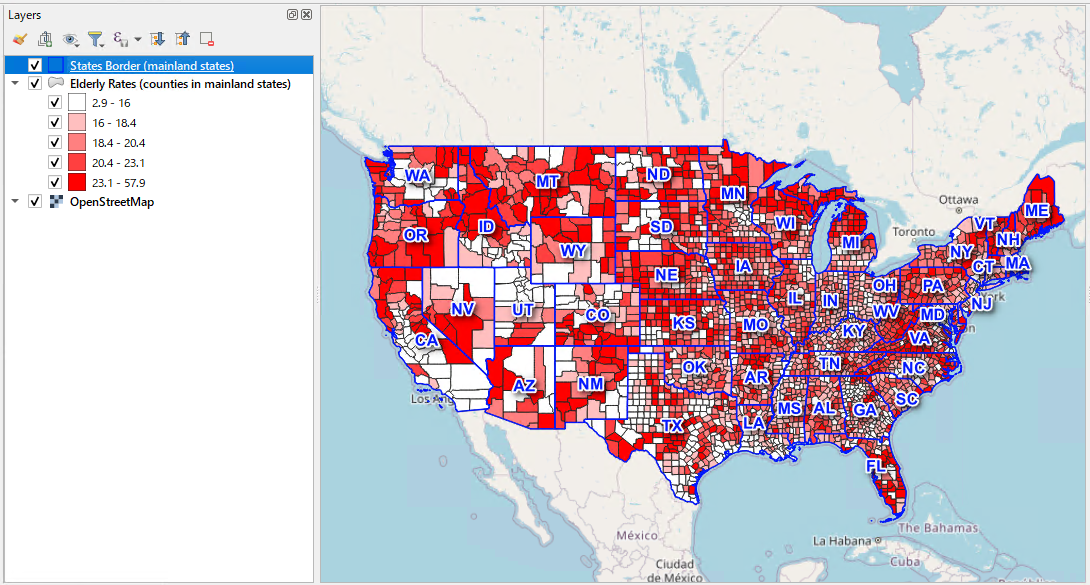
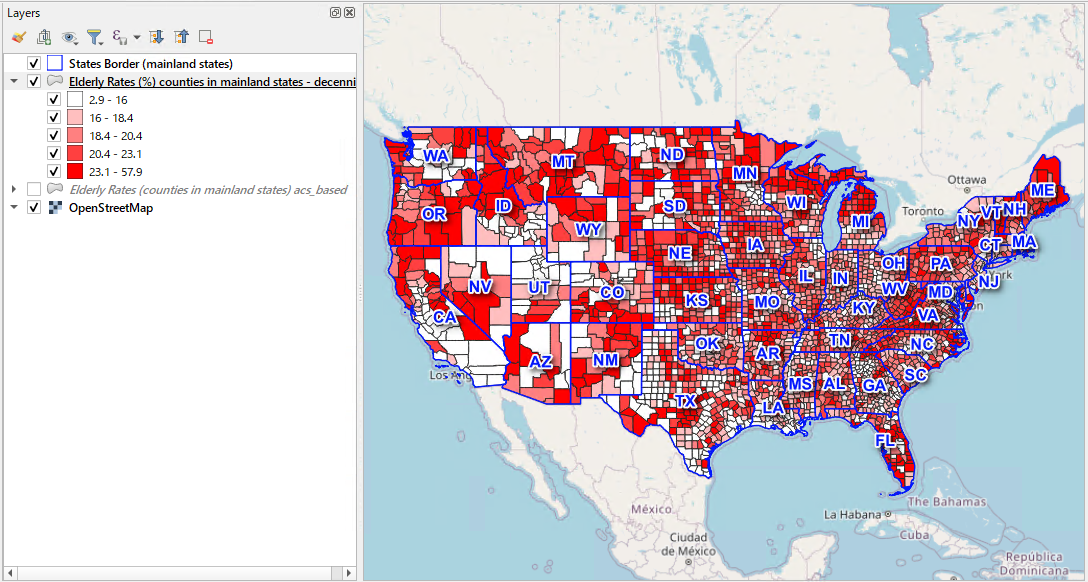
Add 03-02 density images; reorder Sample Output in README (density first)
- output/sql/03-02_population_density_county_wide.png: new
- output/sql/03-02_population_density_county_zoomed.png: new
- output/sql/03-01_elderly_rate_county_wide.png: updated
- output/sql/03-01_elderly_rate_county_zoomed.png: updated
- README.md: reorder Sample Output to density wide/zoom then elderly wide/zoom
  (density image appears first = used as thumbnail on Upwork/portfolio sites);
  expand Notable patterns table to cover both maps; add 03-02 to SQL Templates
  table and Repository Layout

diff --git a/README.md b/README.md
@@ -25,6 +25,12 @@ Administrative boundary geometries are sourced from the US Census Bureau TIGER/L
 
 ## Sample Output
 
+![Population density choropleth — contiguous US](output/sql/03-02_population_density_county_wide.png)
+*Population density by county (48 contiguous states, persons/sq mi) — generated with [`sql/03_visualization/03-02_population_density_county.sql`](sql/03_visualization/03-02_population_density_county.sql) + QGIS. ACS 5-year 2022. Land area sourced from TIGER/Line `aland` field for accurate density calculation.*
+
+![Population density choropleth — NY metro area](output/sql/03-02_population_density_county_zoomed.png)
+*Zoomed view — New York metropolitan area. The density gradient from Manhattan outward to suburban and rural counties is clearly visible.*
+
 ![Elderly rate choropleth — contiguous US](output/sql/03-01_elderly_rate_county_wide.png)
 *Elderly rate by county (48 contiguous states) — generated with [`sql/03_visualization/03-01_elderly_rate_county.sql`](sql/03_visualization/03-01_elderly_rate_county.sql) + QGIS. ACS 5-year 2022. Data source switchable to Decennial Census 2020 via a single parameter.*
 
@@ -33,11 +39,13 @@ Administrative boundary geometries are sourced from the US Census Bureau TIGER/L
 
 **Notable patterns visible in the maps:**
 
-| Pattern | Explanation |
-|---------|-------------|
-| Very low elderly rate (~3–10%) | Military base counties (Fort Benning GA, Camp Lejeune NC, Fort Riley KS), college towns (BYU Provo UT, Texas A&M TX), Native American reservation counties (Pine Ridge SD), oil-boom counties (McKenzie ND — Bakken shale) |
-| Extremely high elderly rate (57.9%) | Sumter County FL — home of **The Villages**, the largest planned retirement community in the US (~130,000+ residents, 55+ only) |
-| New England gap | Connecticut appears blank in the Decennial layer due to a 2022 county reorganisation (8 legacy counties → 9 Planning Regions). Handled in the query via a vintage-aware geometry CTE; see [Known Issues](docs/census_us_README.md#6-known-issues). |
+| Map | Pattern | Explanation |
+|-----|---------|-------------|
+| Density | Extreme concentration in Northeast corridor | New York County (Manhattan) tops ~27,000 persons/km²; density drops sharply westward from the Boston–Washington corridor |
+| Density | Very low density across the interior West | Wyoming, Montana, and Nevada counties often fall below 1 person/km² — frontier-county territory |
+| Elderly rate | Very low elderly rate (~3–10%) | Military base counties (Fort Benning GA, Camp Lejeune NC, Fort Riley KS), college towns (BYU Provo UT, Texas A&M TX), Native American reservation counties (Pine Ridge SD), oil-boom counties (McKenzie ND — Bakken shale) |
+| Elderly rate | Extremely high elderly rate (57.9%) | Sumter County FL — home of **The Villages**, the largest planned retirement community in the US (~130,000+ residents, 55+ only) |
+| Both | New England gap in Decennial layer | Connecticut appears blank when using Decennial Census due to a 2022 county reorganisation (8 legacy counties → 9 Planning Regions). Handled via a vintage-aware geometry CTE; see [Known Issues](docs/census_us_README.md#6-known-issues). |
 
 ---
 
@@ -77,6 +85,7 @@ Reverse-geocode coordinates to county, calculate straight-line distances between
 | Category | File | Purpose |
 |----------|------|---------|
 | [`sql/03_visualization/`](sql/03_visualization/) | [03-01_elderly_rate_county.sql](sql/03_visualization/03-01_elderly_rate_county.sql) | County polygons with elderly rate for QGIS choropleth — ACS or Decennial, parameterised coverage |
+| [`sql/03_visualization/`](sql/03_visualization/) | [03-02_population_density_county.sql](sql/03_visualization/03-02_population_density_county.sql) | County polygons with population density (persons/km² and persons/sq mi) — uses TIGER/Line `aland` for accurate land area |
 | `sql/01_basic/` | *(planned)* | Reverse geocoding, county lookup, distance calculation |
 | `sql/02_analysis/` | *(planned)* | Trade area population, demographic ranking, income/poverty analysis |
 
@@ -148,7 +157,8 @@ gis-trade-area-analysis-us/
 │   ├── 01_basic/                 # Foundational spatial operations (planned)
 │   ├── 02_analysis/              # Core spatial analysis (planned)
 │   └── 03_visualization/         # QGIS / map output queries
-│       └── 03-01_elderly_rate_county.sql
+│       ├── 03-01_elderly_rate_county.sql
+│       └── 03-02_population_density_county.sql
 ├── python/
 │   └── 05_data_import/           # Census data ingestion scripts
 │       ├── 05-01_import_tiger_boundaries.py
